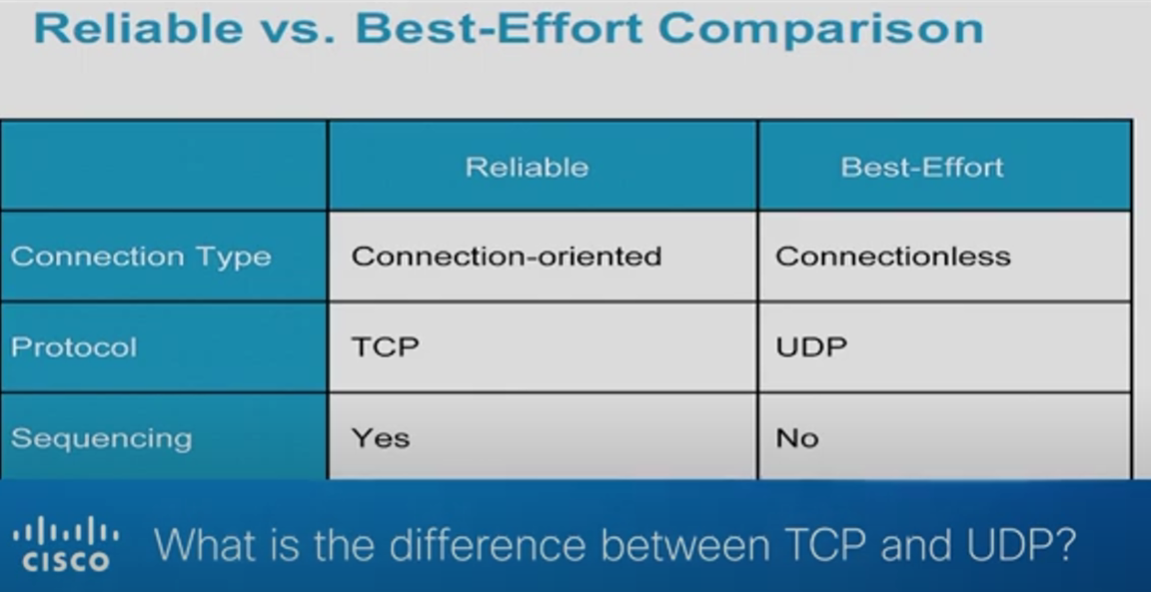
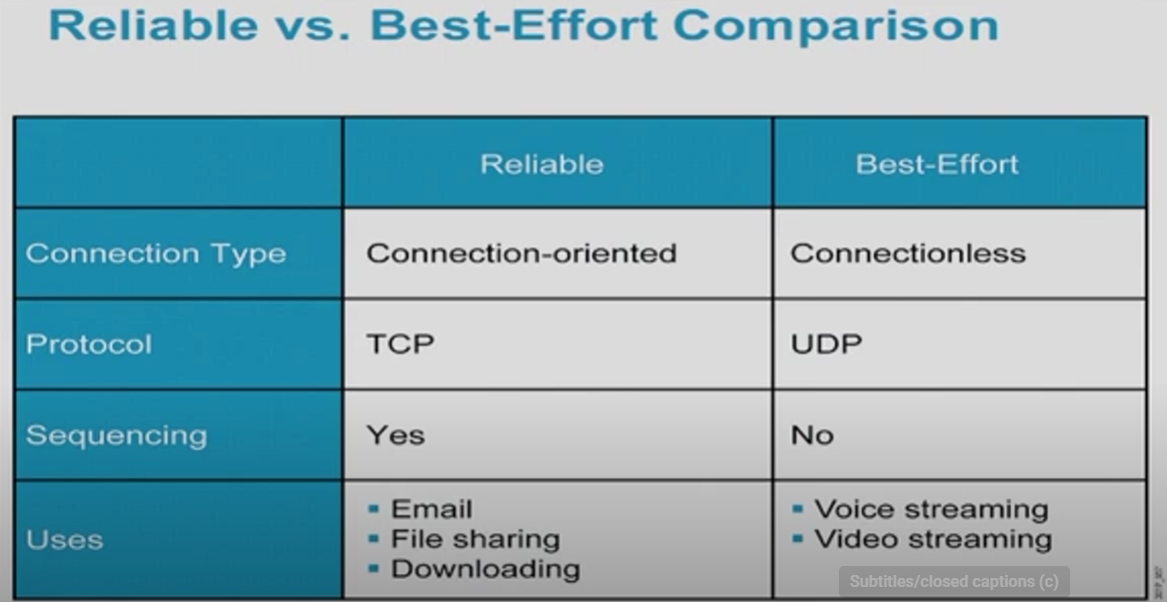
Commit @ 2024-08-21 00:30:00

diff --git a/Networking/README.md b/Networking/README.md
@@ -8,6 +8,7 @@ https://www.youtube.com/@CiscoSystems
 ### TCP: 
 syn, ack, syn ack
 email
+file sharing Downloading
 
 
 ### TCP & UDP: Comparing Transport Protocols
